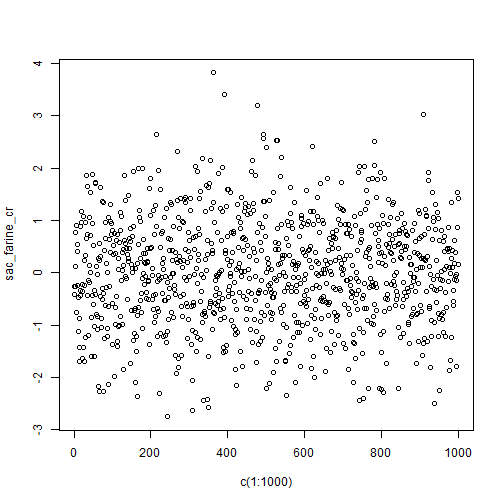
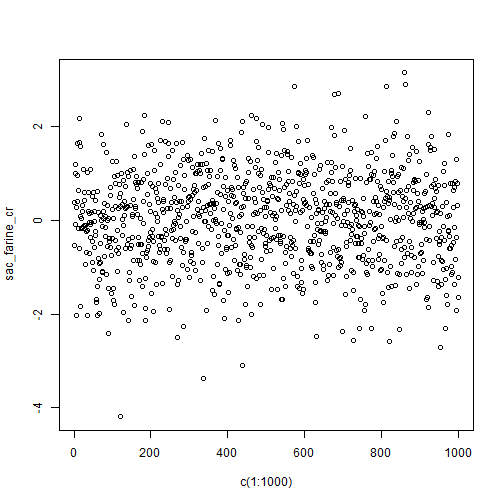
modif ex supp

diff --git a/Exercices_supplémentaires/index.html b/Exercices_supplémentaires/index.html
@@ -1092,6 +1092,12 @@ mouvement &lt;- function(posXinit,posYinit,directionRemi,distance1,distance2,cha
 
 
 
+---
+
+# Exemple 6 (solution: suite)
+
+L'objet **section1** était déjà défini dans le script R. Ainsi, il suffit de faire rouler cette portion de code afin d'obtenir les premières coordonnées empruntées.
+
 
 ```r
 section1 &lt;- round(mouvement(0,0,"droite",50,30,"droite",2)) # Besoin de 6 paires de coordonnées.
@@ -1183,18 +1189,34 @@ matfinal &lt;- rbind(section1,section2,section3,section4) # rbind() pour combine
 ```
 
 
+.pull-left[
+Début:
+
+
+```
+##  [,1] [,2]
+##     0    0
+##    50    0
+##    50  -30
+##   100  -30
+##   100  -60
+##   150  -60
+##   150  -60
+##   150 -130
+##   210 -130
+##   210 -200
+##   270 -200
+```
+
+&lt;/div&gt;
+]
+
+.pull-right[
+Suite:
+
+
 ```
 ##          [,1] [,2]
-##             0    0
-##            50    0
-##            50  -30
-##           100  -30
-##           100  -60
-##           150  -60
-##           150  -60
-##           150 -130
-##           210 -130
-##           210 -200
 ##           270 -200
 ##           270 -270
 ##           270 -270
@@ -1207,6 +1229,10 @@ matfinal &lt;- rbind(section1,section2,section3,section4) # rbind() pour combine
 ##           550  -60
 ## section4  430  -10
 ```
+
+&lt;/div&gt;
+]
+
 
 ---
 
@@ -1293,7 +1319,7 @@ sac_farine_cr &lt;- (sac_farine-250)/5 # centrer et réduire les sacs
 plot(c(1:1000),sac_farine_cr) # On affiche le graphique
 ```
 
-![](index_files/figure-html/unnamed-chunk-22-1.png)&lt;!-- --&gt;
+![](index_files/figure-html/unnamed-chunk-23-1.png)&lt;!-- --&gt;
 
 ---
 
@@ -1310,7 +1336,7 @@ nb_sac_extreme             # (qui dépasse 3 ou -3) nous avions dans l'échantil
 ```
 
 ```
-## [1] 4
+## [1] 1
 ```
 
 ```r
@@ -1322,7 +1348,7 @@ if(nb_sac_extreme &gt; 2){
 ```
 
 ```
-## [1] "La machine est clairement défectueuse"
+## [1] "Il n'y a aucun problème avec la machine"
 ```
 
 ---
@@ -1357,6 +1383,18 @@ calcul_sac(rnorm(n = 1000, mean = 250, sd = 5))
 ```
 
 ```
+## [1] "Il n'y a aucun problème avec la machine"
+```
+
+```
+## [1] 1
+```
+
+```r
+calcul_sac(rnorm(n = 1000, mean = 250, sd = 5))
+```
+
+```
 ## [1] "La machine est clairement défectueuse"
 ```
 
@@ -1373,19 +1411,7 @@ calcul_sac(rnorm(n = 1000, mean = 250, sd = 5))
 ```
 
 ```
-## [1] 2
-```
-
-```r
-calcul_sac(rnorm(n = 1000, mean = 250, sd = 5))
-```
-
-```
-## [1] "La machine est clairement défectueuse"
-```
-
-```
-## [1] 4
+## [1] 1
 ```
 
 ---
@@ -1429,7 +1455,7 @@ for (x in -100:100){
 plot(c(-100:100),y, type = "l")
 ```
 
-![](index_files/figure-html/unnamed-chunk-27-1.png)&lt;!-- --&gt;
+![](index_files/figure-html/unnamed-chunk-28-1.png)&lt;!-- --&gt;
 
 
 ---
@@ -1579,7 +1605,7 @@ resultat[1:10] # idée des 10 première tentatives
 ```
 
 ```
-##  [1]  9 31  5  8  7  4  6 12 15 16
+##  [1] 14  7  4 11  4  7 14 12  5 10
 ```
 
 ```r
@@ -1587,7 +1613,7 @@ mean(resultat) # Moyenne du nombre de lancer total
 ```
 
 ```
-## [1] 11.6566
+## [1] 11.725
 ```
 
 
